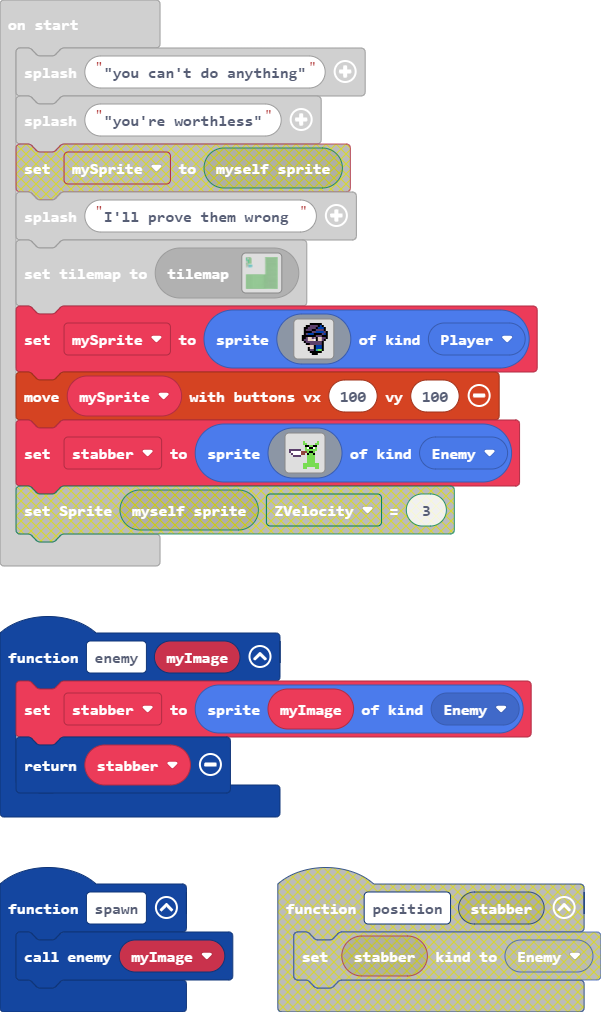
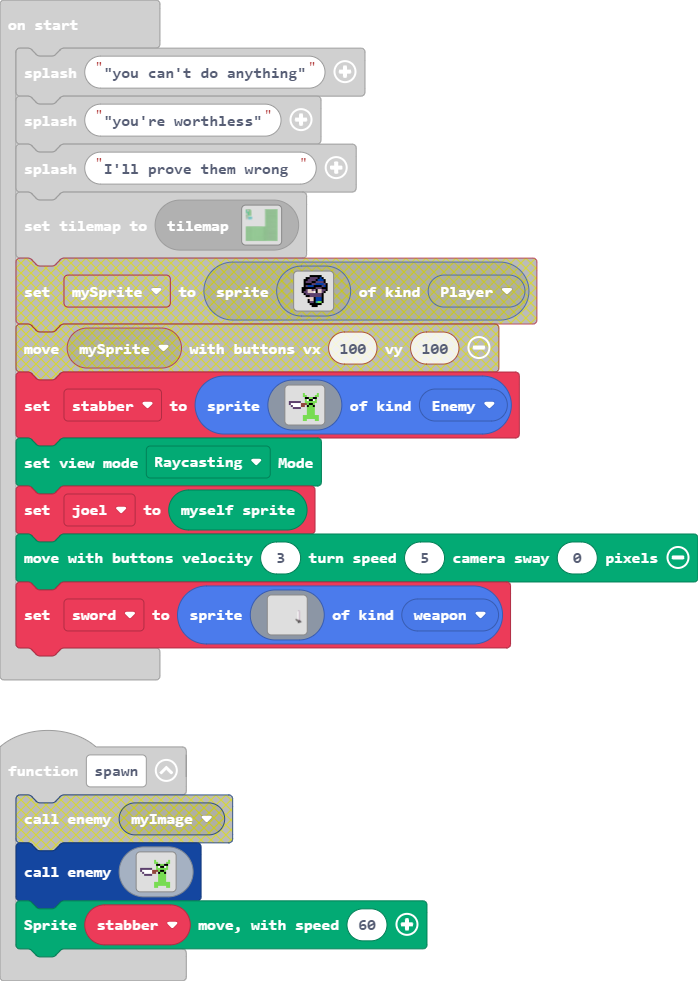
Update main.blocks, main.ts, images.g.jres, images.g.ts

diff --git a/images.g.ts b/images.g.ts
@@ -41,6 +41,41 @@ c 1 1 1 1 1 e e e 7 f f 7 . . .
 . . . . . . . 7 7 7 7 7 7 7 7 . 
 . . . . . . . 7 7 . . . . 7 7 . 
 `;
+            case "image3":
+            case "sword":return img`
+................................................................
+................................................................
+................................................................
+................................................................
+................................................................
+................................................................
+................................................................
+......................................................bb........
+......................................................1b........
+.....................................................111b.......
+.....................................................111b.......
+.....................................................111b.......
+.....................................................111b.......
+.....................................................111b.......
+.....................................................111b.......
+.....................................................111b.......
+.....................................................111b.......
+.....................................................111b.......
+.....................................................111b.......
+.....................................................111b.......
+.....................................................111b.......
+.....................................................111b.......
+.....................................................111b.......
+.....................................................111b.......
+..................................................f..111b.......
+.................................................fdff111b.......
+..................................................fdbfffb.......
+...................................................ffddbff......
+.....................................................fffdbf.....
+......................................................ffffbf....
+......................................................ff..f.....
+......................................................ff........
+`;
         }
         return null;
     })

diff --git a/main.ts b/main.ts
@@ -1,16 +1,21 @@
+namespace SpriteKind {
+    export const weapon = SpriteKind.create()
+}
 function enemy (myImage: Image) {
     stabber = sprites.create(myImage, SpriteKind.Enemy)
     return stabber
 }
 function spawn () {
-    let myImage: Image = null
-    enemy(myImage)
+    enemy(assets.image`stabby`)
+    Render.move(stabber, 60)
 }
 let stabber: Sprite = null
 game.splash("\"you can't do anything\"")
 game.splash("\"you're worthless\"")
 game.splash("I'll prove them wrong ")
 tiles.setCurrentTilemap(tilemap`level`)
-let mySprite = sprites.create(assets.image`joel`, SpriteKind.Player)
-controller.moveSprite(mySprite, 100, 100)
+Render.setViewMode(ViewMode.raycastingView)
+let joel = Render.getRenderSpriteVariable()
+Render.moveWithController(3, 5, 0)
+let sword = sprites.create(assets.image`sword`, SpriteKind.weapon)
 stabber = sprites.create(assets.image`stabby`, SpriteKind.Enemy)
